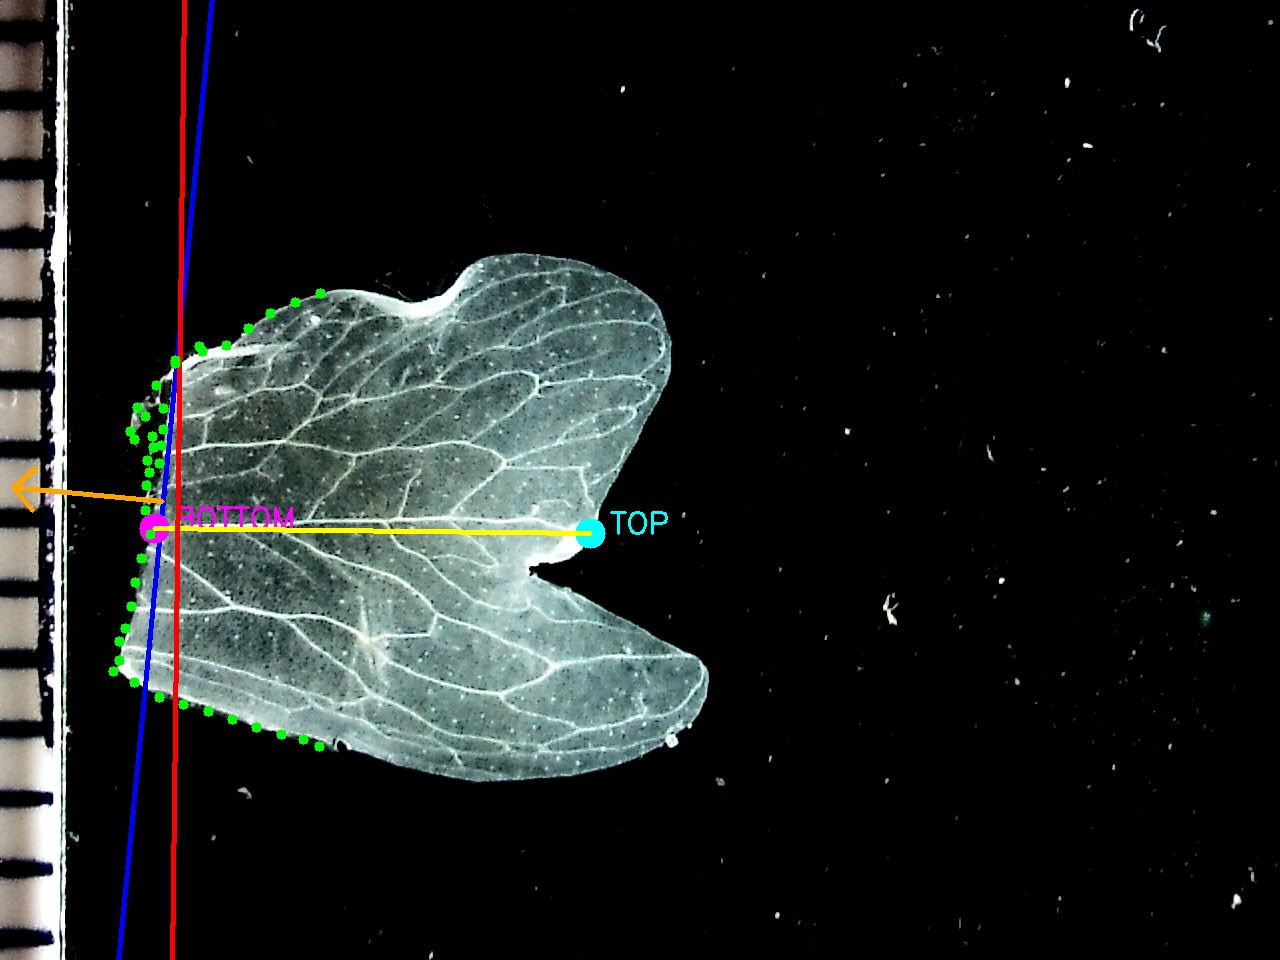
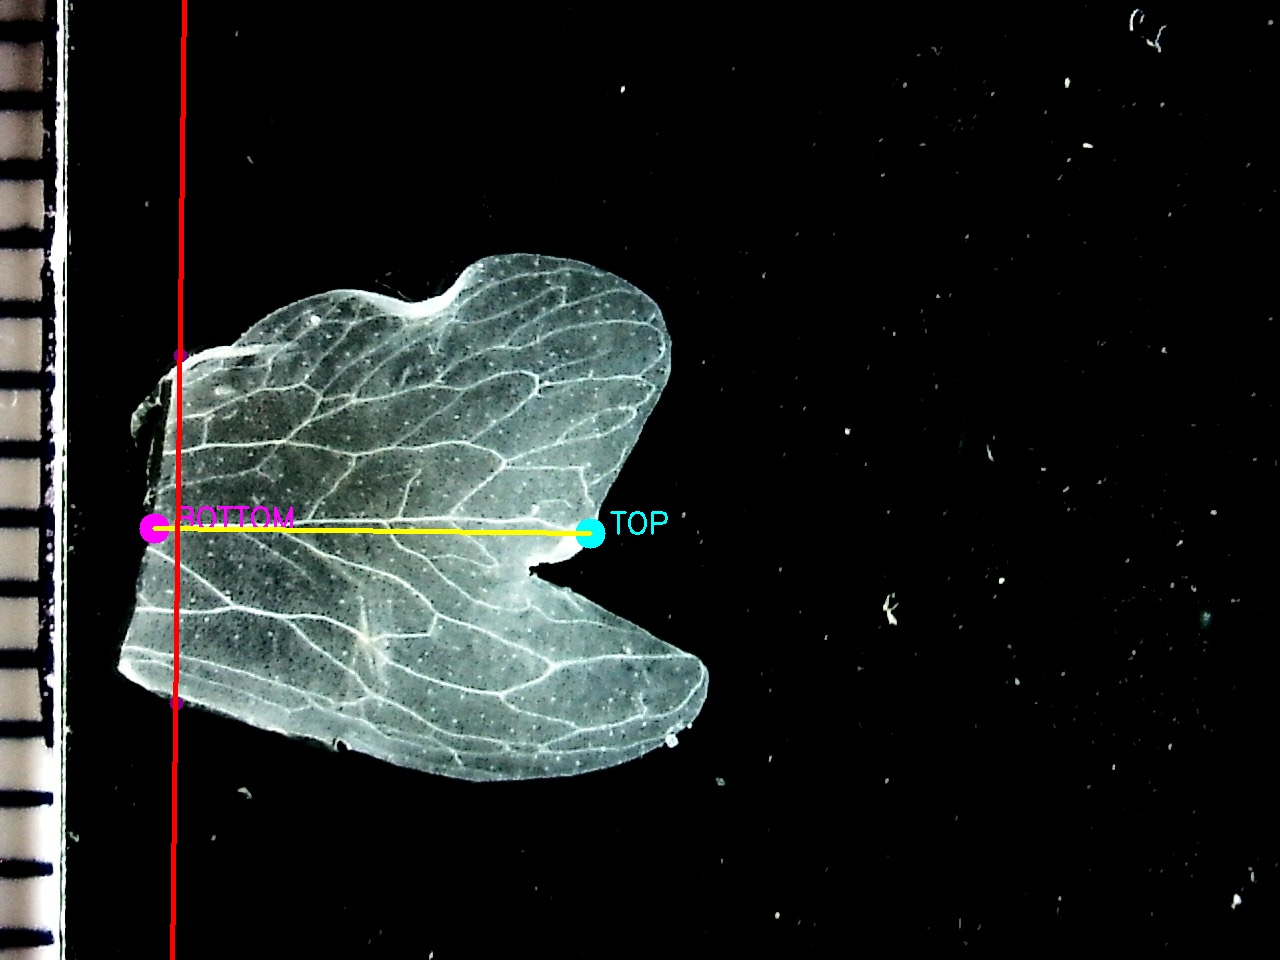
Added corner detection based on perpendicular line.

diff --git a/src/petals_bottom.py b/src/petals_bottom.py
@@ -10,6 +10,7 @@ from matplotlib import image
 import numpy as np
 import glob
 import json
+import image_alignment as img_align
 
 
 def load_keypoints(json_path):
@@ -232,10 +233,12 @@ def process_all_petals(input_dir, output_dir):
 
             line_pt, line_dir, line_normal = fit_bottom_edge_line(edge_points)
 
-            
+            intersection_points = get_corners(perp_pt1, perp_pt2, image)
+
             # Create visualization
             vis_image = image.copy()
-            
+            #Draw linear fit line.
+            '''
             h, w = image.shape[:2]
             L = max(h, w) * 2
 
@@ -248,6 +251,10 @@ def process_all_petals(input_dir, output_dir):
             normal_end = (line_pt + line_normal * normal_len).astype(int)
 
             cv2.arrowedLine(vis_image, tuple(line_pt.astype(int)), tuple(normal_end), (0, 165, 255), 4, tipLength=0.2)
+            '''
+            #Draw corner points
+            for point in intersection_points:
+                cv2.circle(vis_image, point, 7, (128, 0, 128), thickness=-1)
 
 
             # Draw keypoints if available
@@ -275,8 +282,12 @@ def process_all_petals(input_dir, output_dir):
                 cv2.line(vis_image, pt1, pt2, (0, 0, 255), 4)  # Red perpendicular line
             
             # Draw edge points
+            '''
             for pt in edge_pts[::max(1, len(edge_pts)//40)]:
                 cv2.circle(vis_image, tuple(pt.astype(int)), 5, (0, 255, 0), -1)
+            '''
+
+            
             
             # Save
             ext = os.path.splitext(filename)[1]
@@ -422,8 +433,75 @@ def process_petals_linear(input_dir, output_dir):
             import traceback
             traceback.print_exc()
 
+def intersection(o1, p1, o2, p2):
+    """
+    Finds the intersection point of two lines defined by (o1, p1) and (o2, p2).
+    Returns the intersection point (x, y) if it exists, otherwise None.
+    """
+    x = o2 - o1
+    d1 = p1 - o1
+    d2 = p2 - o2
 
-    pass
+    cross = d1[0] * d2[1] - d1[1] * d2[0]
+    if abs(cross) < 1e-8: # Lines are parallel
+        return None
+
+    t1 = (x[0] * d2[1] - x[1] * d2[0]) / cross
+    # Check if the intersection point lies within both line segments
+        
+    t2 = (x[0] * d1[1] - x[1] * d1[0]) / cross
+    if not (0 <= t2 <= 1):
+        return None
+
+    r = o1 + d1 * t1
+    return (int(round(r[0])), int(round(r[1])))
+
+
+def get_corners(pt1, pt2, image):
+    '''
+    Using either a linear fit line or a perpendicular line intersect with the petal edge to determine the bottom corners of the petal
+    '''
+    pt1 = np.array(pt1, dtype=np.float32)
+    pt2 = np.array(pt2, dtype=np.float32)
+
+    petal_mask = get_petal_shape_simple(image)
+
+    contours, hierarchy = cv2.findContours(petal_mask, cv2.RETR_EXTERNAL, cv2.CHAIN_APPROX_NONE)
+    main_contour = max(contours, key=cv2.contourArea)
+    
+    line = np.array([pt1, pt2])
+    intersection_points = []
+
+    for i in range(len(main_contour)-1):
+        pt1_contour = main_contour[i][0]
+        pt2_contour = main_contour[i+1][0]
+        
+        point = intersection(pt1, pt2, pt1_contour, pt2_contour)
+        if point:
+            intersection_points.append(point)
+    '''
+    for point in intersection_points:
+        cv2.circle(image, point, 4, (0, 255, 0), thickness=-1)
+    '''
+    if len(intersection_points) > 2:
+        pts = np.array(intersection_points)
+
+        # sort along perpendicular direction
+        direction = pt2 - pt1
+        direction /= np.linalg.norm(direction)
+
+        projections = pts @ direction
+        idx = np.argsort(projections)
+
+        intersection_points = [
+            tuple(pts[idx[0]]),
+            tuple(pts[idx[-1]])
+        ]
+
+
+    return intersection_points
+
+    
 
 
 if __name__ == "__main__":
